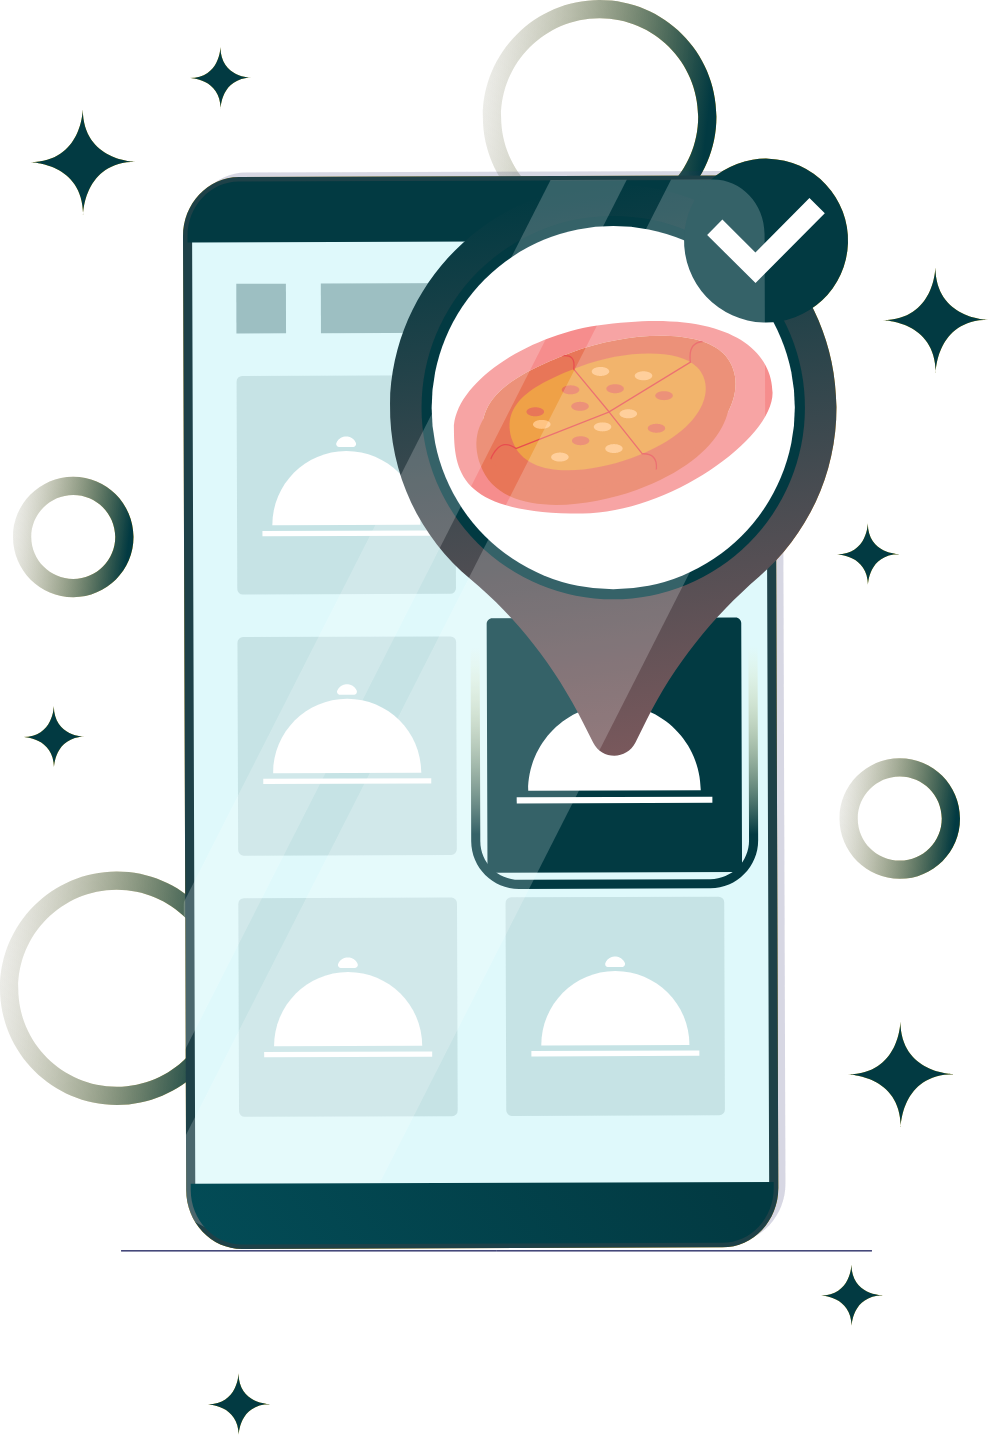
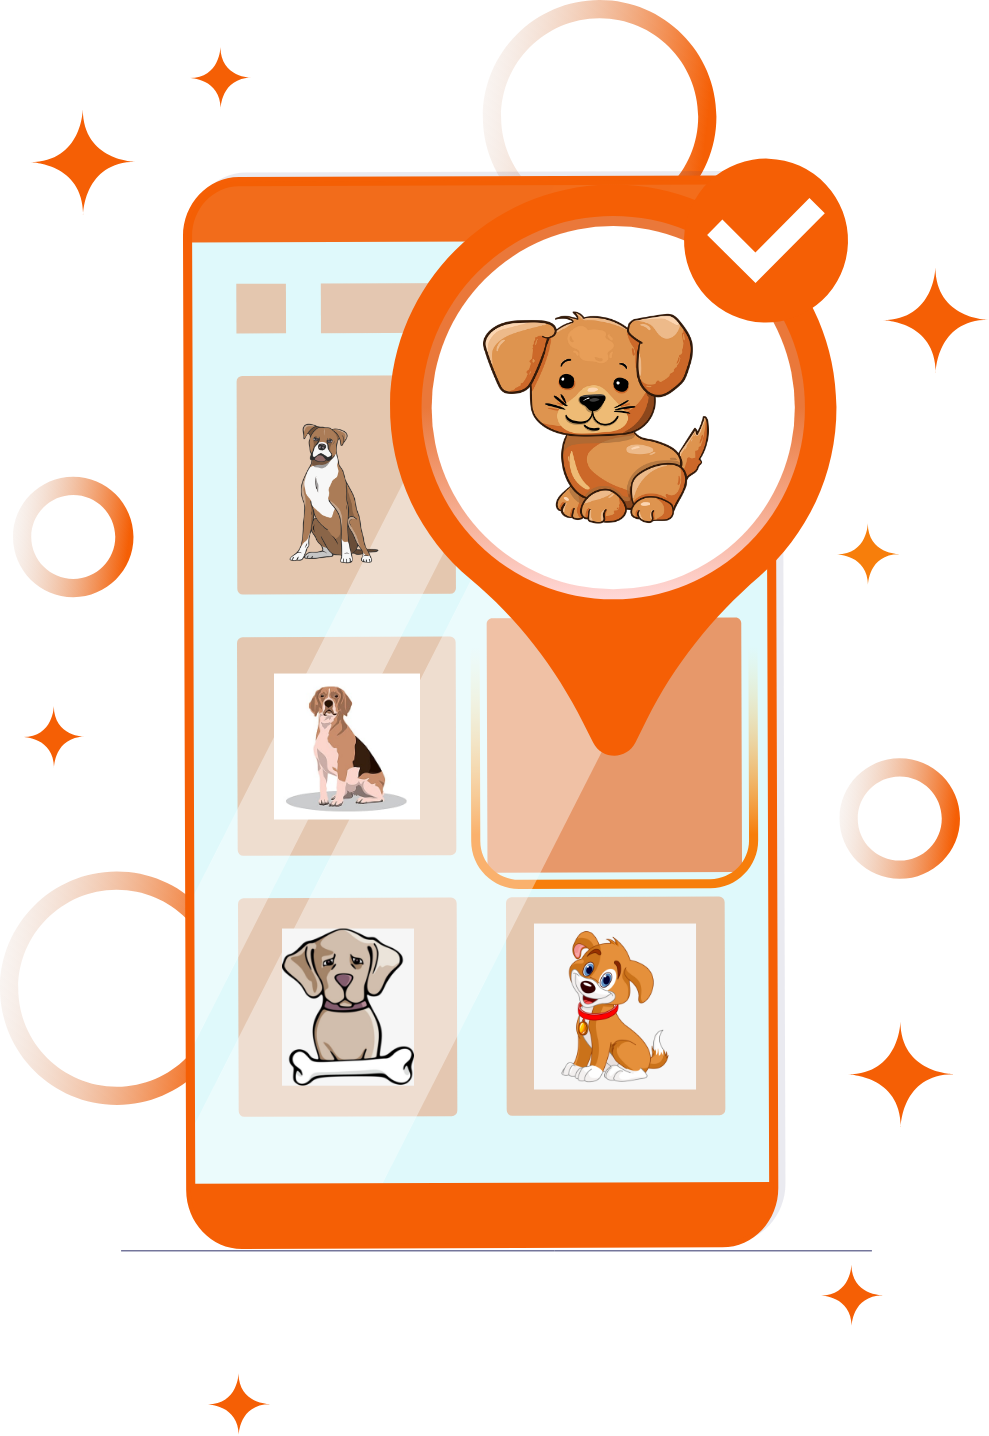
Change Profile Screen and Home screen

diff --git a/lib/Screen/Dashboard.dart b/lib/Screen/Dashboard.dart
@@ -24,6 +24,7 @@ import 'HomePage.dart';
 import 'NotificationLIst.dart';
 import 'Sale.dart';
 import 'Search.dart';
+import 'newregistration.dart';
 
 class Dashboard extends StatefulWidget {
   const Dashboard({Key? key}) : super(key: key);
@@ -190,10 +191,11 @@ class _HomePageState extends State<Dashboard> with TickerProviderStateMixin {
           children: [
             HomePage(),
             AllCategory(),
-            Sale(),
-            Cart(
-              fromBottom: true,
-            ),
+            RegistrationScreen(),
+            // Sale(),
+            // Cart(
+            //   fromBottom: true,
+            // ),
             MyProfile(),
           ],
         ),
@@ -210,7 +212,7 @@ class _HomePageState extends State<Dashboard> with TickerProviderStateMixin {
     else if (_selBottom == 2)
       title = getTranslated(context, 'OFFER');
     else if (_selBottom == 3)
-      title = getTranslated(context, 'MYBAG');
+      title = getTranslated(context, 'PROFILE');
     else if (_selBottom == 4) title = getTranslated(context, 'PROFILE');
 
     return AppBar(
@@ -374,57 +376,57 @@ class _HomePageState extends State<Dashboard> with TickerProviderStateMixin {
                       ),
                 text: _selBottom == 2 ? getTranslated(context, 'SALE') : null,
               ),
+              // Tab(
+              //   icon: Selector<UserProvider, String>(
+              //     builder: (context, data, child) {
+              //       return Stack(
+              //         children: [
+              //           Center(
+              //             child: _selBottom == 3
+              //                 ? SvgPicture.asset(
+              //                     imagePath + "cart01.svg",
+              //                     color: colors.primary,
+              //                   )
+              //                 : SvgPicture.asset(
+              //                     imagePath + "cart.svg",
+              //                     color: colors.primary,
+              //                   ),
+              //           ),
+              //           (data != null && data.isNotEmpty && data != "0")
+              //               ? new Positioned.directional(
+              //                   bottom: _selBottom == 3 ? 6 : 20,
+              //                   textDirection: Directionality.of(context),
+              //                   end: 0,
+              //                   child: Container(
+              //                     decoration: BoxDecoration(
+              //                         shape: BoxShape.circle,
+              //                         color: colors.primary),
+              //                     child: new Center(
+              //                       child: Padding(
+              //                         padding: EdgeInsets.all(3),
+              //                         child: new Text(
+              //                           data,
+              //                           style: TextStyle(
+              //                               fontSize: 7,
+              //                               fontWeight: FontWeight.bold,
+              //                               color: Theme.of(context)
+              //                                   .colorScheme
+              //                                   .white),
+              //                         ),
+              //                       ),
+              //                     ),
+              //                   ),
+              //                 )
+              //               : Container()
+              //         ],
+              //       );
+              //     },
+              //     selector: (_, homeProvider) => homeProvider.curCartCount,
+              //   ),
+              //   text: _selBottom == 3 ? getTranslated(context, 'CART') : null,
+              // ),
               Tab(
-                icon: Selector<UserProvider, String>(
-                  builder: (context, data, child) {
-                    return Stack(
-                      children: [
-                        Center(
-                          child: _selBottom == 3
-                              ? SvgPicture.asset(
-                                  imagePath + "cart01.svg",
-                                  color: colors.primary,
-                                )
-                              : SvgPicture.asset(
-                                  imagePath + "cart.svg",
-                                  color: colors.primary,
-                                ),
-                        ),
-                        (data != null && data.isNotEmpty && data != "0")
-                            ? new Positioned.directional(
-                                bottom: _selBottom == 3 ? 6 : 20,
-                                textDirection: Directionality.of(context),
-                                end: 0,
-                                child: Container(
-                                  decoration: BoxDecoration(
-                                      shape: BoxShape.circle,
-                                      color: colors.primary),
-                                  child: new Center(
-                                    child: Padding(
-                                      padding: EdgeInsets.all(3),
-                                      child: new Text(
-                                        data,
-                                        style: TextStyle(
-                                            fontSize: 7,
-                                            fontWeight: FontWeight.bold,
-                                            color: Theme.of(context)
-                                                .colorScheme
-                                                .white),
-                                      ),
-                                    ),
-                                  ),
-                                ),
-                              )
-                            : Container()
-                      ],
-                    );
-                  },
-                  selector: (_, homeProvider) => homeProvider.curCartCount,
-                ),
-                text: _selBottom == 3 ? getTranslated(context, 'CART') : null,
-              ),
-              Tab(
-                icon: _selBottom == 4
+                icon: _selBottom == 3
                     ? SvgPicture.asset(
                         imagePath + "profile01.svg",
                         color: colors.primary,

diff --git a/lib/Screen/MyProfile.dart b/lib/Screen/MyProfile.dart
@@ -447,36 +447,33 @@ class StateProfile extends State<MyProfile> with TickerProviderStateMixin {
       shrinkWrap: true,
       physics: BouncingScrollPhysics(),
       children: <Widget>[
-        CUR_USERID == "" || CUR_USERID == null
-            ? Container()
-            : _getDrawerItem(getTranslated(context, 'MY_ORDERS_LBL')!,
-                'assets/images/pro_myorder.svg'),
+        // CUR_USERID == "" || CUR_USERID == null
+        //     ? Container()
+        //     : _getDrawerItem(getTranslated(context, 'MY_ORDERS_LBL')!,
+        //         'assets/images/pro_myorder.svg'),
         // CUR_USERID == "" || CUR_USERID == null ? Container() : _getDivider(),
-        CUR_USERID == "" || CUR_USERID == null
-            ? Container()
-            : _getDrawerItem(getTranslated(context, 'MANAGE_ADD_LBL')!,
-                'assets/images/pro_address.svg'),
+        // CUR_USERID == "" || CUR_USERID == null
+        //     ? Container()
+        //     : _getDrawerItem(getTranslated(context, 'MANAGE_ADD_LBL')!,
+        //         'assets/images/pro_address.svg'),
         //CUR_USERID == "" || CUR_USERID == null ? Container() : _getDivider(),
-        CUR_USERID == "" || CUR_USERID == null
-            ? Container()
-            : _getDrawerItem(getTranslated(context, 'MYWALLET')!,
-                'assets/images/pro_wh.svg'),
+        // CUR_USERID == "" || CUR_USERID == null
+        //     ? Container()
+        //     : _getDrawerItem(getTranslated(context, 'MYWALLET')!,
+        //         'assets/images/pro_wh.svg'),
         // CUR_USERID == "" || CUR_USERID == null ? Container() : _getDivider(),
-        CUR_USERID == "" || CUR_USERID == null
-            ? Container()
-            : _getDrawerItem(getTranslated(context, 'MYTRANSACTION')!,
-                'assets/images/pro_th.svg'),
+        // CUR_USERID == "" || CUR_USERID == null
+        //     ? Container()
+        //     : _getDrawerItem(getTranslated(context, 'MYTRANSACTION')!,
+        //         'assets/images/pro_th.svg'),
         // CUR_USERID == "" || CUR_USERID == null ? Container() : _getDivider(),
-        _getDrawerItem(getTranslated(context, 'CHANGE_THEME_LBL')!,
-            'assets/images/pro_theme.svg'),
-        // _getDivider(),
-        _getDrawerItem(getTranslated(context, 'CHANGE_LANGUAGE_LBL')!,
-            'assets/images/pro_language.svg'),
+        // _getDrawerItem(getTranslated(context, 'CHANGE_THEME_LBL')!,
+        //     'assets/images/pro_theme.svg'),
+        // // _getDivider(),
+        // _getDrawerItem(getTranslated(context, 'CHANGE_LANGUAGE_LBL')!,
+        //     'assets/images/pro_language.svg'),
         //  CUR_USERID == "" || CUR_USERID == null ? Container() : _getDivider(),
-        CUR_USERID == "" || CUR_USERID == null
-            ? Container()
-            : _getDrawerItem(getTranslated(context, 'CHANGE_PASS_LBL')!,
-                'assets/images/pro_pass.svg'),
+
         // _getDivider(),
         // CUR_USERID == "" || CUR_USERID == null || !refer
         //     ? Container()
@@ -489,6 +486,7 @@ class StateProfile extends State<MyProfile> with TickerProviderStateMixin {
         _getDrawerItem(getTranslated(context, 'ABOUT_LBL')!,
             'assets/images/pro_aboutus.svg'),
         // _getDivider(),
+
         _getDrawerItem(getTranslated(context, 'CONTACT_LBL')!,
             'assets/images/pro_aboutus.svg'),
         // _getDivider(),
@@ -507,6 +505,10 @@ class StateProfile extends State<MyProfile> with TickerProviderStateMixin {
         _getDrawerItem(getTranslated(context, 'SHARE_APP')!,
             'assets/images/pro_share.svg'),
         // CUR_USERID == "" || CUR_USERID == null ? Container() : _getDivider(),
+        CUR_USERID == "" || CUR_USERID == null
+            ? Container()
+            : _getDrawerItem(getTranslated(context, 'CHANGE_PASS_LBL')!,
+            'assets/images/pro_pass.svg'),
         CUR_USERID == "" || CUR_USERID == null
             ? Container()
             : _getDrawerItem(getTranslated(context, 'LOGOUT')!,

diff --git a/lib/Screen/Intro_Slider.dart b/lib/Screen/Intro_Slider.dart
@@ -42,11 +42,11 @@ class _GettingStartedScreenState extends State<IntroSlider>
             title: getTranslated(context, 'TITLE2_LBL'),
             description: getTranslated(context, 'DISCRIPTION2'),
           ),
-          Slide(
-            imageUrl: 'assets/images/introimage_c.png',
-            title: getTranslated(context, 'TITLE3_LBL'),
-            description: getTranslated(context, 'DISCRIPTION3'),
-          ),
+          // Slide(
+          //   imageUrl: 'assets/images/introimage_c.png',
+          //   title: getTranslated(context, 'TITLE3_LBL'),
+          //   description: getTranslated(context, 'DISCRIPTION3'),
+          // ),
         ];
       });
     });
@@ -116,15 +116,15 @@ class _GettingStartedScreenState extends State<IntroSlider>
                         style: Theme.of(context).textTheme.headline5!.copyWith(
                             color: Theme.of(context).colorScheme.fontColor,
                             fontWeight: FontWeight.bold))),
-                Container(
-                  padding: EdgeInsetsDirectional.only(
-                      top: 30.0, start: 15.0, end: 15.0),
-                  child: Text(slideList[index].description,
-                      textAlign: TextAlign.center,
-                      style: Theme.of(context).textTheme.subtitle1!.copyWith(
-                          color: Theme.of(context).colorScheme.fontColor,
-                          fontWeight: FontWeight.normal)),
-                ),
+                // Container(
+                //   padding: EdgeInsetsDirectional.only(
+                //       top: 30.0, start: 15.0, end: 15.0),
+                //   child: Text(slideList[index].description,
+                //       textAlign: TextAlign.center,
+                //       style: Theme.of(context).textTheme.subtitle1!.copyWith(
+                //           color: Theme.of(context).colorScheme.fontColor,
+                //           fontWeight: FontWeight.normal)),
+                // ),
               ],
             ),
           );

diff --git a/lib/Helper/Constant.dart b/lib/Helper/Constant.dart
@@ -16,7 +16,8 @@ const int perPage = 10;
 // final String baseUrl = 'http://inlizer.com/app/v1/api/';
 // final String baseUrl ='https://rekoindia.com/app/v1/api/';
 // final String baseUrl= 'https://developmentalphawizz.com/reko/app/v1/api/';
-final String baseUrl= 'https://developmentalphawizz.com/Ashwini_Amruttulya/app/v1/api/';
+// final String baseUrl= 'https://developmentalphawizz.com/Ashwini_Amruttulya/app/v1/api/';
+final String baseUrl= 'https://developmentalphawizz.com/vetcare/app/v1/api/';
 
 // final String jwtKey = "78084f1698c9fcff5a668b68dcd103db39be2605";
 final String jwtKey = "78084f1698c9fcff5a668b68dcd103db39be2605";

diff --git a/lib/Helper/Color.dart b/lib/Helper/Color.dart
@@ -17,7 +17,7 @@ extension colors on ColorScheme {
     },
   );
 
-  static const Color primary = Color(0xff033c44);
+  static const Color primary = Color(0xffF55F05);
   static const Color secondary = Color(0xff000000);
 
   Color get btnColor =>
@@ -40,7 +40,7 @@ extension colors on ColorScheme {
 
   static Color darkIcon = Color(0xff9B9B9B);
 
-  static const Color grad1Color = Color(0xff033c44);
+  static const Color grad1Color = Color(0xffF55F05);
   static const Color grad2Color = Color(0xffFF6363);
   static const Color lightWhite2 = Color(0xffEEF2F3);
 

diff --git a/lib/Screen/newregistration.dart b/lib/Screen/newregistration.dart
@@ -1,0 +1,18 @@
+import 'package:flutter/cupertino.dart';
+import 'package:flutter/material.dart';
+
+class RegistrationScreen extends StatefulWidget {
+  const RegistrationScreen({Key? key}) : super(key: key);
+
+  @override
+  State<RegistrationScreen> createState() => _RegistrationScreenState();
+}
+
+class _RegistrationScreenState extends State<RegistrationScreen> {
+  @override
+  Widget build(BuildContext context) {
+    return Scaffold(
+      body: Container(child: Center(child: Text("No Data Found")),),
+    );
+  }
+}

diff --git a/lib/main.dart b/lib/main.dart
@@ -191,7 +191,7 @@ class _MyAppState extends State<MyApp> {
             initialRoute: '/',
             routes: {
               '/': (context) => Splash(),
-              '/home': (context) => HomePage(),
+              '/home': (context) => Dashboard(),
             },
             darkTheme: ThemeData(
               canvasColor: colors.darkColor,

diff --git a/lib/Screen/HomePage.dart b/lib/Screen/HomePage.dart
@@ -204,7 +204,7 @@ class _HomePageState extends State<HomePage>
   @override
   Widget build(BuildContext context) {
     return Scaffold(
-      appBar: _getAppBar(),
+      // appBar: _getAppBar(),
       body: _isNetworkAvail
           ? RefreshIndicator(
               color: colors.primary,
